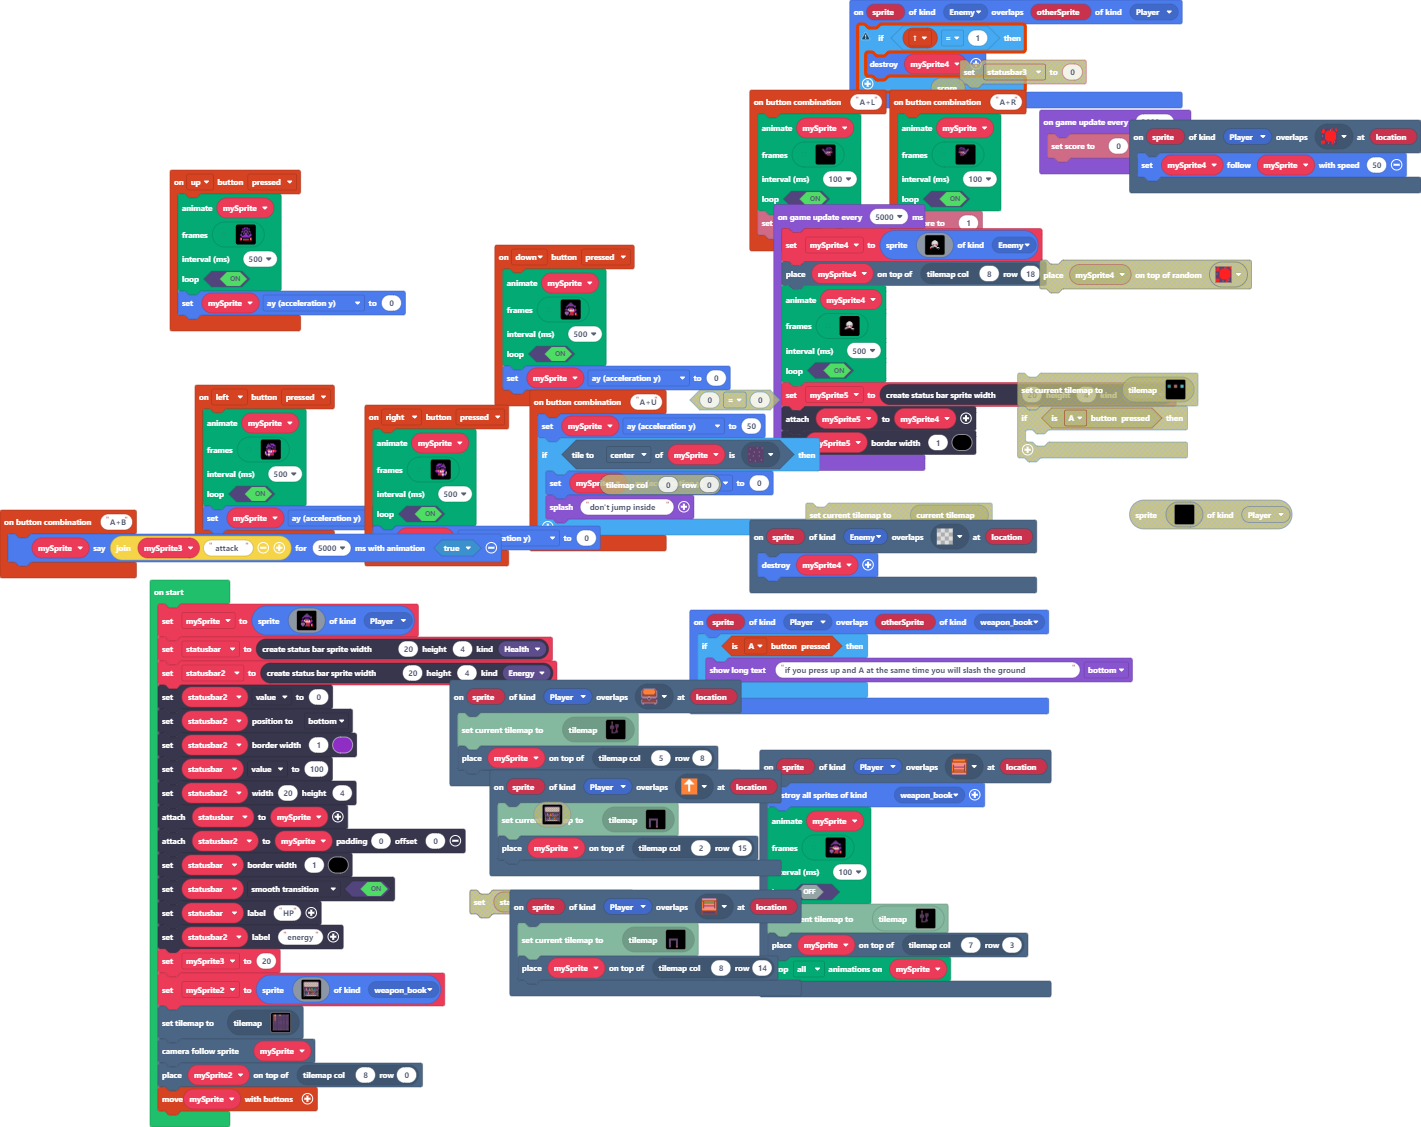
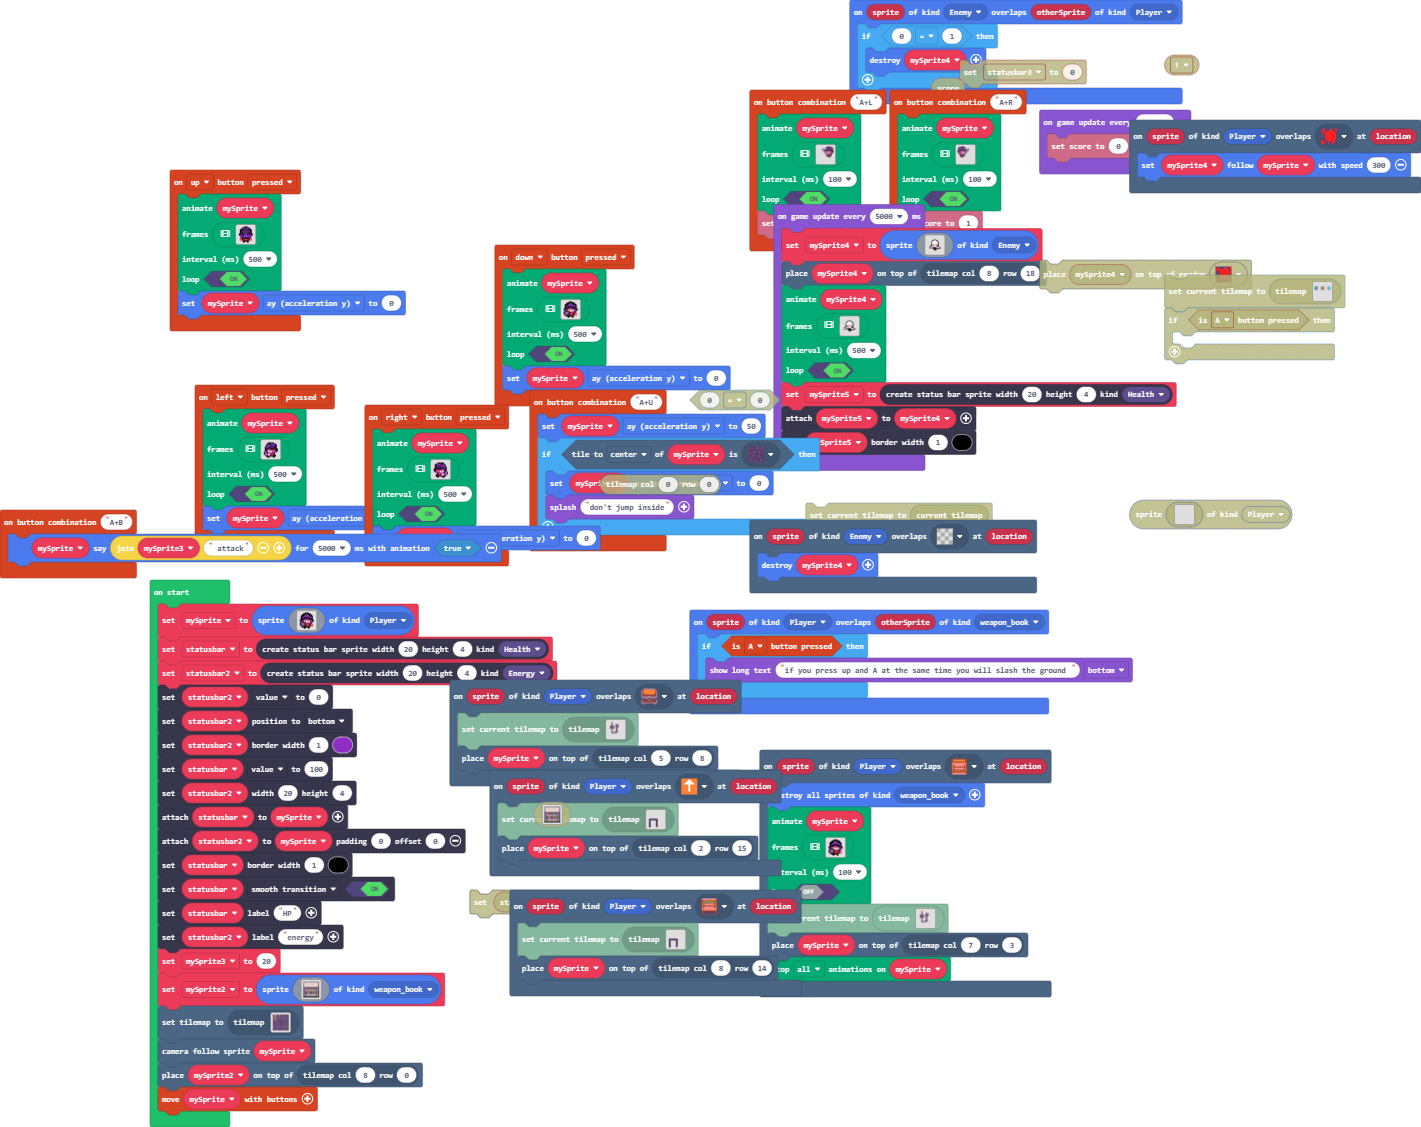
Update pxt.json, main.blocks, main.ts

diff --git a/main.ts b/main.ts
@@ -192,7 +192,7 @@ controller.combos.attachCombo("A+L", function () {
     info.setScore(1)
 })
 scene.onOverlapTile(SpriteKind.Player, assets.tile`myTile7`, function (sprite, location) {
-    mySprite4.follow(mySprite, 50)
+    mySprite4.follow(mySprite, 300)
 })
 scene.onOverlapTile(SpriteKind.Player, assets.tile`myTile4`, function (sprite, location) {
     sprites.destroyAllSpritesOfKind(SpriteKind.weapon_book)
@@ -736,7 +736,7 @@ controller.right.onEvent(ControllerButtonEvent.Pressed, function () {
     mySprite.ay = 0
 })
 sprites.onOverlap(SpriteKind.Enemy, SpriteKind.Player, function (sprite, otherSprite) {
-    if (controller.combos.idToString(controller.combos.ID.up) == 1) {
+    if ((0 as any) == (1 as any)) {
         mySprite4.destroy()
     }
 })
